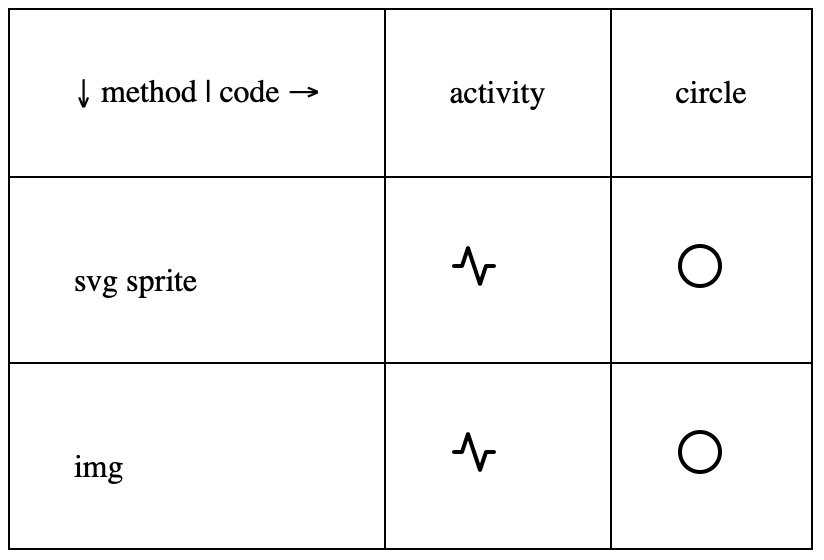
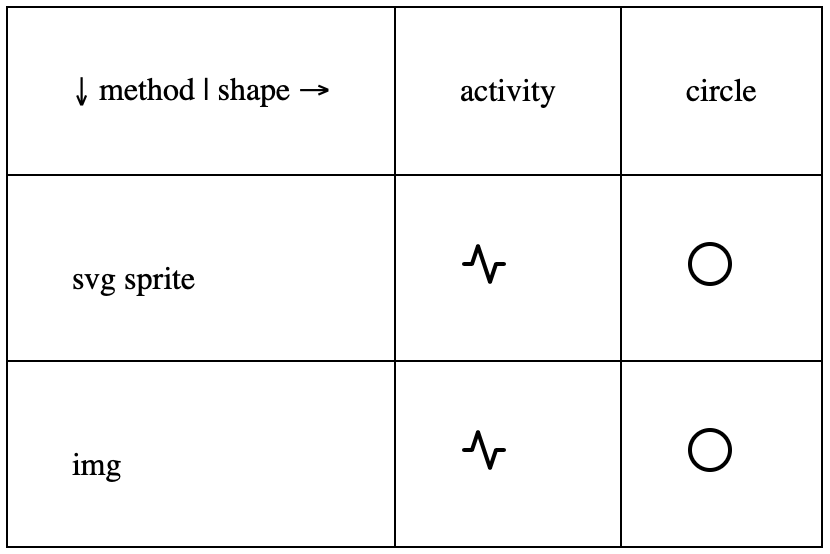
fix typo

diff --git a/index.html b/index.html
@@ -25,7 +25,7 @@
 <body>
 	<table>
 		<tr>
-			<td>↓ method | code →</td>
+			<td>↓ method | shape →</td>
 			<td>activity</td>
 			<td>circle</td>
 		</tr>
